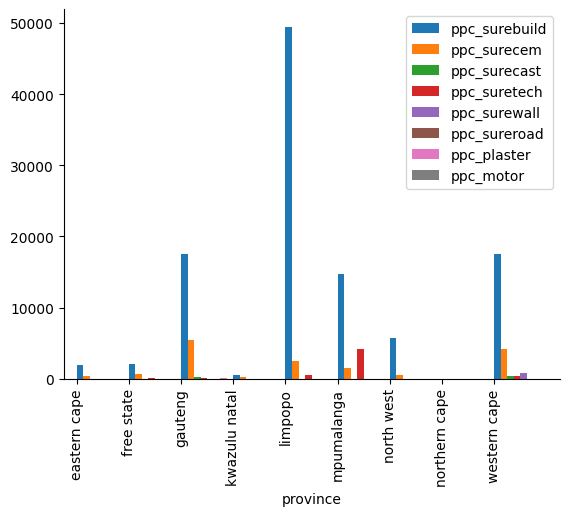
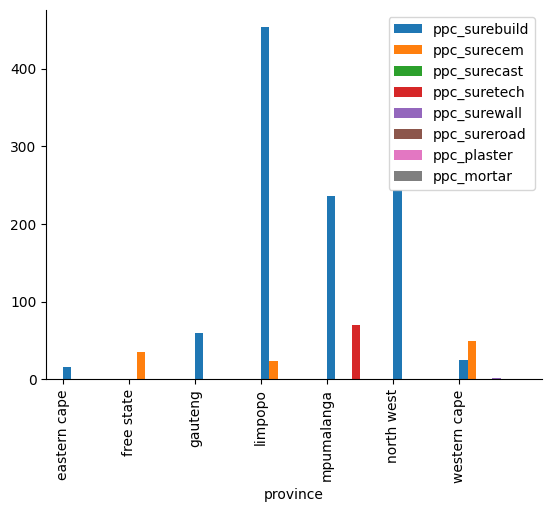
changed motor to mortar

Changed region(s): [[0.0, 0.0312, 0.9855, 1.0]]

diff --git a/ppc_surerewards.py b/ppc_surerewards.py
@@ -267,7 +267,7 @@ def main():
 
 
 
-			df_receiptdata=pd.read_sql_query("SELECT mechant,location,action as platform_massage,cast(createdAt as date) as receipt_upload_date,cast(updatedAt as date) as receipt_captured_date,ppc_surebuild,ppc_surecem,ppc_surecast,ppc_suretech,ppc_surewall,ppc_sureroad,ppc_plaster, ppc_motor FROM receiptdata where cast(updatedAt as date) = '"+ str(selected_date)+"'" ,conn)
+			df_receiptdata=pd.read_sql_query("SELECT mechant,location,action as platform_massage,cast(createdAt as date) as receipt_upload_date,cast(updatedAt as date) as receipt_captured_date,ppc_surebuild,ppc_surecem,ppc_surecast,ppc_suretech,ppc_surewall,ppc_sureroad,ppc_plaster,ppc_motor as  ppc_mortar FROM receiptdata where cast(updatedAt as date) = '"+ str(selected_date)+"'" ,conn)
 
 			camp_u_recpt = pd.read_sql_query( "SELECT count(users.id) as value from users inner join receipts on users.id=receipts.user_id where status  in ('Duplicate receipts','outdated Receipt','Receipt cut off.','Receipt not relevant', 'Receipt not visible','approved','Limit Reached.') and cast(receipts.updatedAt as date) ='"+str(selected_date)+"'and cast(users.createdAt as date ) >= '2022-02-15' and cast(users.createdAt as date )<'"+str(selected_date)+"'",conn)
 			camp_u_numb = pd.read_sql_query( "SELECT count(distinct(users.id)) as value from users inner join receipts on users.id=receipts.user_id where status  in ('Duplicate receipts','outdated Receipt','Receipt cut off.','Receipt not relevant', 'Receipt not visible','approved','Limit Reached.') and cast(receipts.updatedAt as date) ='"+str(selected_date)+"'and cast(users.createdAt as date ) >= '2022-02-15' and cast(users.createdAt as date ) <'"+str(selected_date)+"'",conn)
@@ -288,12 +288,12 @@ def main():
 
 
 
-			bags_by_date=pd.read_sql_query("SELECT cast(updatedAt as date) as date ,ppc_surebuild,ppc_surecem,ppc_surecast,ppc_suretech,ppc_surewall,ppc_sureroad,ppc_plaster, ppc_motor FROM receiptdata where cast(updatedAt as date) between '2022-02-15' and '"+ str(selected_date)+"'" ,conn)
-			bags_by_date['Total number of bags'] =bags_by_date['ppc_surebuild']+bags_by_date['ppc_surecem'] +bags_by_date['ppc_surecast']+bags_by_date['ppc_suretech']+bags_by_date['ppc_surewall']+bags_by_date['ppc_sureroad']+bags_by_date['ppc_plaster']+bags_by_date['ppc_motor']
+			bags_by_date=pd.read_sql_query("SELECT cast(updatedAt as date) as date ,ppc_surebuild,ppc_surecem,ppc_surecast,ppc_suretech,ppc_surewall,ppc_sureroad,ppc_plaster,ppc_motor as  ppc_mortar FROM receiptdata where cast(updatedAt as date) between '2022-02-15' and '"+ str(selected_date)+"'" ,conn)
+			bags_by_date['Total number of bags'] =bags_by_date['ppc_surebuild']+bags_by_date['ppc_surecem'] +bags_by_date['ppc_surecast']+bags_by_date['ppc_suretech']+bags_by_date['ppc_surewall']+bags_by_date['ppc_sureroad']+bags_by_date['ppc_plaster']+bags_by_date['ppc_mortar']
 			
 			## Taking posative Values
 			bags_by_date = bags_by_date[bags_by_date['Total number of bags']>0]
-			bags_by_date['ppc_motor'] = bags_by_date['ppc_motor'].abs()
+			bags_by_date['ppc_mortar'] = bags_by_date['ppc_mortar'].abs()
 
 
 			num_receipts=pd.read_sql_query("SELECT count(*) as no_of_receipts_upload ,cast(receipts.updatedAt as date) as date from users inner join receipts on users.id=receipts.user_id where code !='PPC130' and status  in ('Duplicate receipts','outdated Receipt','Receipt cut off.','Receipt not relevant', 'Receipt not visible','Approved','Limit reached.') and cast(receipts.updatedAt as date) = '"+str(selected_date)+"' ",conn)
@@ -346,12 +346,12 @@ def main():
 			df_receiptdata['mechant'] = df_receiptdata['mechant'].str.replace('\d+', '', regex=True)			
 
 
-			df_receiptdata['Total number of bags'] =df_receiptdata['ppc_surebuild']+df_receiptdata['ppc_surecem'] +df_receiptdata['ppc_surecast']+df_receiptdata['ppc_suretech']+df_receiptdata['ppc_surewall']+df_receiptdata['ppc_sureroad']+df_receiptdata['ppc_plaster']+df_receiptdata['ppc_motor']
+			df_receiptdata['Total number of bags'] =df_receiptdata['ppc_surebuild']+df_receiptdata['ppc_surecem'] +df_receiptdata['ppc_surecast']+df_receiptdata['ppc_suretech']+df_receiptdata['ppc_surewall']+df_receiptdata['ppc_sureroad']+df_receiptdata['ppc_plaster']+df_receiptdata['ppc_mortar']
 
 			## Taking posative Values
 			df_receiptdata = df_receiptdata[df_receiptdata['Total number of bags']>0]
 
-			df_receiptdata['ppc_motor'] = df_receiptdata['ppc_motor'].abs()
+			df_receiptdata['ppc_mortar'] = df_receiptdata['ppc_mortar'].abs()
 
 
 			#
@@ -1140,9 +1140,9 @@ def main():
 
 					################# Addding  Plot  ################################
 
-					producd_region = df_receiptdata.groupby(['province'])['ppc_surebuild','ppc_surecem','ppc_surecast','ppc_suretech','ppc_surewall','ppc_sureroad','ppc_plaster','ppc_motor'].sum().reset_index()
+					producd_region = df_receiptdata.groupby(['province'])['ppc_surebuild','ppc_surecem','ppc_surecast','ppc_suretech','ppc_surewall','ppc_sureroad','ppc_plaster','ppc_mortar'].sum().reset_index()
 
-					product = pd.DataFrame({"ppc_surebuild":list(producd_region['ppc_surebuild']),'ppc_surecem':list(producd_region['ppc_surecem']),'ppc_surecast':list(producd_region['ppc_surecast']),'ppc_suretech':list(producd_region['ppc_suretech']),'ppc_surewall':list(producd_region['ppc_surewall']),'ppc_sureroad':list(producd_region['ppc_sureroad']),'ppc_plaster':list(producd_region['ppc_plaster']),'ppc_motor':list(producd_region['ppc_motor'])}, index=producd_region['province'])
+					product = pd.DataFrame({"ppc_surebuild":list(producd_region['ppc_surebuild']),'ppc_surecem':list(producd_region['ppc_surecem']),'ppc_surecast':list(producd_region['ppc_surecast']),'ppc_suretech':list(producd_region['ppc_suretech']),'ppc_surewall':list(producd_region['ppc_surewall']),'ppc_sureroad':list(producd_region['ppc_sureroad']),'ppc_plaster':list(producd_region['ppc_plaster']),'ppc_mortar':list(producd_region['ppc_mortar'])}, index=producd_region['province'])
 
 
 
@@ -1272,7 +1272,7 @@ def main():
 
 					############## Adding Merchant Performance
 
-					#name_ = ['Total number of bags','ppc_surebuild','ppc_surecem','ppc_surecast','ppc_suretech','ppc_surewall','ppc_sureroad','ppc_plaster','ppc_motor']
+					#name_ = ['Total number of bags','ppc_surebuild','ppc_surecem','ppc_surecast','ppc_suretech','ppc_surewall','ppc_sureroad','ppc_plaster','ppc_mortar']
 
 					#df =df_receiptdata.groupby(['mechant'])[name_].apply(lambda x : x.astype(int).sum())
 					#sorted_df=df.sort_values('Total number of bags', ascending=False)
@@ -1284,7 +1284,7 @@ def main():
 
 
 					################# Top Performong Merchant By Sale Quantity
-					name_ = ['Total number of bags','ppc_surebuild','ppc_surecem','ppc_surecast','ppc_suretech','ppc_surewall','ppc_sureroad','ppc_plaster','ppc_motor']
+					name_ = ['Total number of bags','ppc_surebuild','ppc_surecem','ppc_surecast','ppc_suretech','ppc_surewall','ppc_sureroad','ppc_plaster','ppc_mortar']
 
 					df =df_receiptdata.groupby(['city'])[name_].apply(lambda x : x.astype(int).sum())
 					sorted_df=df.sort_values('Total number of bags', ascending=False)
@@ -1712,7 +1712,7 @@ def main():
 
 					############## Adding Merchant Performance
 
-					#name_ = ['Total number of bags','ppc_surebuild','ppc_surecem','ppc_surecast','ppc_suretech','ppc_surewall','ppc_sureroad','ppc_plaster','ppc_motor']
+					#name_ = ['Total number of bags','ppc_surebuild','ppc_surecem','ppc_surecast','ppc_suretech','ppc_surewall','ppc_sureroad','ppc_plaster','ppc_mortar']
 
 					#df =df_receiptdata.groupby(['mechant'])[name_].apply(lambda x : x.astype(int).sum())
 					#sorted_df=df.sort_values('Total number of bags', ascending=False)
@@ -1724,7 +1724,7 @@ def main():
 
 
 					################# Top Performong Merchant By Sale Quantity
-					name_ = ['Total number of bags','ppc_surebuild','ppc_surecem','ppc_surecast','ppc_suretech','ppc_surewall','ppc_sureroad','ppc_plaster','ppc_motor']
+					name_ = ['Total number of bags','ppc_surebuild','ppc_surecem','ppc_surecast','ppc_suretech','ppc_surewall','ppc_sureroad','ppc_plaster','ppc_mortar']
 
 					df =df_receiptdata.groupby(['mechant'])[name_].apply(lambda x : x.astype(int).sum())
 					sorted_df=df.sort_values('Total number of bags', ascending=False)
@@ -2871,7 +2871,7 @@ def main():
 
 
 
-			df_receiptdata=pd.read_sql_query("SELECT mechant,location,action as platform_massage,cast(createdAt as date) as receipt_upload_date,cast(updatedAt as date) as receipt_captured_date,ppc_surebuild,ppc_surecem,ppc_surecast,ppc_suretech,ppc_surewall,ppc_sureroad,ppc_plaster, ppc_motor FROM receiptdata where cast(updatedAt as date) between '"+ str(start_date)+"' and '"+ str(end_date)+"'" ,conn)
+			df_receiptdata=pd.read_sql_query("SELECT mechant,location,action as platform_massage,cast(createdAt as date) as receipt_upload_date,cast(updatedAt as date) as receipt_captured_date,ppc_surebuild,ppc_surecem,ppc_surecast,ppc_suretech,ppc_surewall,ppc_sureroad,ppc_plaster,ppc_motor as ppc_mortar FROM receiptdata where cast(updatedAt as date) between '"+ str(start_date)+"' and '"+ str(end_date)+"'" ,conn)
 
 			camp_u_recpt = pd.read_sql_query( "SELECT count(users.id) as value from users inner join receipts on users.id=receipts.user_id where status  in ('Duplicate receipts','outdated Receipt','Receipt cut off.','Receipt not relevant', 'Receipt not visible','approved','Limit Reached.') and cast(receipts.updatedAt as date) between'"+ str(start_date)+"' and '"+ str(end_date)+"'and cast(users.createdAt as date ) >= '2022-02-15' and cast(users.createdAt as date )<'"+str(start_date)+"'",conn)
 			camp_u_numb = pd.read_sql_query( "SELECT count(distinct(users.id)) as value from users inner join receipts on users.id=receipts.user_id where status  in ('Duplicate receipts','outdated Receipt','Receipt cut off.','Receipt not relevant', 'Receipt not visible','approved','Limit Reached.') and cast(receipts.updatedAt as date) between'"+ str(start_date)+"' and '"+ str(end_date)+"'and cast(users.createdAt as date ) >= '2022-02-15' and cast(users.createdAt as date ) <'"+str(start_date)+"'",conn)
@@ -2892,12 +2892,12 @@ def main():
 
 
 
-			bags_by_date=pd.read_sql_query("SELECT cast(updatedAt as date) as date ,ppc_surebuild,ppc_surecem,ppc_surecast,ppc_suretech,ppc_surewall,ppc_sureroad,ppc_plaster, ppc_motor FROM receiptdata where cast(updatedAt as date) between '2022-02-15' and '"+ str(end_date)+"'" ,conn)
-			bags_by_date['Total number of bags'] =bags_by_date['ppc_surebuild']+bags_by_date['ppc_surecem'] +bags_by_date['ppc_surecast']+bags_by_date['ppc_suretech']+bags_by_date['ppc_surewall']+bags_by_date['ppc_sureroad']+bags_by_date['ppc_plaster']+bags_by_date['ppc_motor']
+			bags_by_date=pd.read_sql_query("SELECT cast(updatedAt as date) as date ,ppc_surebuild,ppc_surecem,ppc_surecast,ppc_suretech,ppc_surewall,ppc_sureroad,ppc_plaster,ppc_motor as ppc_mortar FROM receiptdata where cast(updatedAt as date) between '2022-02-15' and '"+ str(end_date)+"'" ,conn)
+			bags_by_date['Total number of bags'] =bags_by_date['ppc_surebuild']+bags_by_date['ppc_surecem'] +bags_by_date['ppc_surecast']+bags_by_date['ppc_suretech']+bags_by_date['ppc_surewall']+bags_by_date['ppc_sureroad']+bags_by_date['ppc_plaster']+bags_by_date['ppc_mortar']
 			
 			## Taking posative Values
 			bags_by_date = bags_by_date[bags_by_date['Total number of bags']>0]
-			bags_by_date['ppc_motor'] = bags_by_date['ppc_motor'].abs()
+			bags_by_date['ppc_mortar'] = bags_by_date['ppc_mortar'].abs()
 
 
 			num_receipts=pd.read_sql_query("SELECT count(*) as no_of_receipts_upload ,cast(receipts.updatedAt as date) as date from users inner join receipts on users.id=receipts.user_id where code !='PPC130' and status  in ('Duplicate receipts','outdated Receipt','Receipt cut off.','Receipt not relevant', 'Receipt not visible','Approved','Limit reached.') and cast(receipts.updatedAt as date) between '"+ str(start_date)+"' and '"+ str(end_date)+"' ",conn)
@@ -2923,12 +2923,12 @@ def main():
 
 			######## bags inter #########################
 
-			bags_interval=pd.read_sql_query("SELECT cast(updatedAt as date) as date ,ppc_surebuild,ppc_surecem,ppc_surecast,ppc_suretech,ppc_surewall,ppc_sureroad,ppc_plaster, ppc_motor FROM receiptdata where cast(updatedAt as date) between '"+str(start_date)+"' and '"+ str(end_date)+"'" ,conn)
-			bags_interval['Total number of bags'] =bags_interval['ppc_surebuild']+bags_interval['ppc_surecem'] +bags_interval['ppc_surecast']+bags_interval['ppc_suretech']+bags_interval['ppc_surewall']+bags_interval['ppc_sureroad']+bags_interval['ppc_plaster']+bags_interval['ppc_motor']
+			bags_interval=pd.read_sql_query("SELECT cast(updatedAt as date) as date ,ppc_surebuild,ppc_surecem,ppc_surecast,ppc_suretech,ppc_surewall,ppc_sureroad,ppc_plaster,ppc_motor as ppc_mortar FROM receiptdata where cast(updatedAt as date) between '"+str(start_date)+"' and '"+ str(end_date)+"'" ,conn)
+			bags_interval['Total number of bags'] =bags_interval['ppc_surebuild']+bags_interval['ppc_surecem'] +bags_interval['ppc_surecast']+bags_interval['ppc_suretech']+bags_interval['ppc_surewall']+bags_interval['ppc_sureroad']+bags_interval['ppc_plaster']+bags_interval['ppc_mortar']
 			
 			## Taking posative Values
 			bags_interval = bags_interval[bags_interval['Total number of bags']>0]
-			bags_interval['ppc_motor'] =bags_interval['ppc_motor'].abs()
+			bags_interval['ppc_mortar'] =bags_interval['ppc_mortar'].abs()
 
 			
 			bags_interval =bags_interval.groupby(['date'])[['Total number of bags']].apply(lambda x : x.astype(int).sum())
@@ -2973,12 +2973,12 @@ def main():
 			df_receiptdata['mechant'] = df_receiptdata['mechant'].str.replace('\d+', '', regex=True)			
 
 
-			df_receiptdata['Total number of bags'] =df_receiptdata['ppc_surebuild']+df_receiptdata['ppc_surecem'] +df_receiptdata['ppc_surecast']+df_receiptdata['ppc_suretech']+df_receiptdata['ppc_surewall']+df_receiptdata['ppc_sureroad']+df_receiptdata['ppc_plaster']+df_receiptdata['ppc_motor']
+			df_receiptdata['Total number of bags'] =df_receiptdata['ppc_surebuild']+df_receiptdata['ppc_surecem'] +df_receiptdata['ppc_surecast']+df_receiptdata['ppc_suretech']+df_receiptdata['ppc_surewall']+df_receiptdata['ppc_sureroad']+df_receiptdata['ppc_plaster']+df_receiptdata['ppc_mortar']
 
 			## Taking posative Values
 			df_receiptdata = df_receiptdata[df_receiptdata['Total number of bags']>0]
 
-			df_receiptdata['ppc_motor'] = df_receiptdata['ppc_motor'].abs()
+			df_receiptdata['ppc_mortar'] = df_receiptdata['ppc_mortar'].abs()
 
 
 			#
@@ -3767,13 +3767,13 @@ def main():
 
 					################# Addding  Plot  ################################
 
-					producd_region = df_receiptdata.groupby(['province'])['ppc_surebuild','ppc_surecem','ppc_surecast','ppc_suretech','ppc_surewall','ppc_sureroad','ppc_plaster','ppc_motor'].sum().reset_index()
+					producd_region = df_receiptdata.groupby(['province'])['ppc_surebuild','ppc_surecem','ppc_surecast','ppc_suretech','ppc_surewall','ppc_sureroad','ppc_plaster','ppc_mortar'].sum().reset_index()
 					
 
 
 					
 
-					product = pd.DataFrame({"ppc_surebuild":list(producd_region['ppc_surebuild']),'ppc_surecem':list(producd_region['ppc_surecem']),'ppc_surecast':list(producd_region['ppc_surecast']),'ppc_suretech':list(producd_region['ppc_suretech']),'ppc_surewall':list(producd_region['ppc_surewall']),'ppc_sureroad':list(producd_region['ppc_sureroad']),'ppc_plaster':list(producd_region['ppc_plaster']),'ppc_motor':list(producd_region['ppc_motor'])}, index=producd_region['province'])
+					product = pd.DataFrame({"ppc_surebuild":list(producd_region['ppc_surebuild']),'ppc_surecem':list(producd_region['ppc_surecem']),'ppc_surecast':list(producd_region['ppc_surecast']),'ppc_suretech':list(producd_region['ppc_suretech']),'ppc_surewall':list(producd_region['ppc_surewall']),'ppc_sureroad':list(producd_region['ppc_sureroad']),'ppc_plaster':list(producd_region['ppc_plaster']),'ppc_mortar':list(producd_region['ppc_mortar'])}, index=producd_region['province'])
 
 
 
@@ -3952,7 +3952,7 @@ def main():
 
 					############## Adding Merchant Performance
 
-					#name_ = ['Total number of bags','ppc_surebuild','ppc_surecem','ppc_surecast','ppc_suretech','ppc_surewall','ppc_sureroad','ppc_plaster','ppc_motor']
+					#name_ = ['Total number of bags','ppc_surebuild','ppc_surecem','ppc_surecast','ppc_suretech','ppc_surewall','ppc_sureroad','ppc_plaster','ppc_mortar']
 
 					#df =df_receiptdata.groupby(['mechant'])[name_].apply(lambda x : x.astype(int).sum())
 					#sorted_df=df.sort_values('Total number of bags', ascending=False)
@@ -3964,7 +3964,7 @@ def main():
 
 
 					################# Top Performong Merchant By Sale Quantity
-					name_ = ['Total number of bags','ppc_surebuild','ppc_surecem','ppc_surecast','ppc_suretech','ppc_surewall','ppc_sureroad','ppc_plaster','ppc_motor']
+					name_ = ['Total number of bags','ppc_surebuild','ppc_surecem','ppc_surecast','ppc_suretech','ppc_surewall','ppc_sureroad','ppc_plaster','ppc_mortar']
 
 					df =df_receiptdata.groupby(['city'])[name_].apply(lambda x : x.astype(int).sum())
 					sorted_df=df.sort_values('Total number of bags', ascending=False)
@@ -4392,7 +4392,7 @@ def main():
 
 					############## Adding Merchant Performance
 
-					#name_ = ['Total number of bags','ppc_surebuild','ppc_surecem','ppc_surecast','ppc_suretech','ppc_surewall','ppc_sureroad','ppc_plaster','ppc_motor']
+					#name_ = ['Total number of bags','ppc_surebuild','ppc_surecem','ppc_surecast','ppc_suretech','ppc_surewall','ppc_sureroad','ppc_plaster','ppc_mortar']
 
 					#df =df_receiptdata.groupby(['mechant'])[name_].apply(lambda x : x.astype(int).sum())
 					#sorted_df=df.sort_values('Total number of bags', ascending=False)
@@ -4404,7 +4404,7 @@ def main():
 
 
 					################# Top Performong Merchant By Sale Quantity
-					name_ = ['Total number of bags','ppc_surebuild','ppc_surecem','ppc_surecast','ppc_suretech','ppc_surewall','ppc_sureroad','ppc_plaster','ppc_motor']
+					name_ = ['Total number of bags','ppc_surebuild','ppc_surecem','ppc_surecast','ppc_suretech','ppc_surewall','ppc_sureroad','ppc_plaster','ppc_mortar']
 
 					df =df_receiptdata.groupby(['mechant'])[name_].apply(lambda x : x.astype(int).sum())
 					sorted_df=df.sort_values('Total number of bags', ascending=False)
@@ -5070,9 +5070,26 @@ def main():
 					###### Adding Comments ##########################3
 
 					apprv_ = status[status['status']=='approved']['count'].reset_index()
-					limit_ = status[status['status']=='Limit reached.']['count'].reset_index()
 
-					apprvd_per =round(((apprv_['count'][0]+limit_['count'][0])/status['count'].sum())*100)
+					
+					status_list =list(status.columns)
+
+					limit_name= ['Limit reached.']
+
+					for name in limit_name :
+						if name in status_list:
+							limit_no= limit_['count'][0]
+						else:
+							limit_no =0
+
+
+
+
+									
+
+					apprvd_per =round(((apprv_['count'][0]+limit_no)/status['count'].sum())*100,2)
+
+
 
 
 
@@ -5528,7 +5545,7 @@ def main():
 	if selection == "Product Performance":
 
 
-		df_receiptdata=pd.read_sql_query("SELECT mechant,location,action as platform_massage,cast(createdAt as date) as receipt_upload_date,cast(updatedAt as date) as receipt_captured_date,ppc_surebuild,ppc_surecem,ppc_surecast,ppc_suretech,ppc_surewall,ppc_sureroad,ppc_plaster, ppc_motor FROM receiptdata ",conn)
+		df_receiptdata=pd.read_sql_query("SELECT mechant,location,action as platform_massage,cast(createdAt as date) as receipt_upload_date,cast(updatedAt as date) as receipt_captured_date,ppc_surebuild,ppc_surecem,ppc_surecast,ppc_suretech,ppc_surewall,ppc_sureroad,ppc_plaster, ppc_motor as ppc_mortar FROM receiptdata ",conn)
 
 
 		### split data into city and province
@@ -5564,12 +5581,12 @@ def main():
 
 
 
-		df_receiptdata['Total number of bags'] =df_receiptdata['ppc_surebuild']+df_receiptdata['ppc_surecem'] +df_receiptdata['ppc_surecast']+df_receiptdata['ppc_suretech']+df_receiptdata['ppc_surewall']+df_receiptdata['ppc_sureroad']+df_receiptdata['ppc_plaster']+df_receiptdata['ppc_motor']
+		df_receiptdata['Total number of bags'] =df_receiptdata['ppc_surebuild']+df_receiptdata['ppc_surecem'] +df_receiptdata['ppc_surecast']+df_receiptdata['ppc_suretech']+df_receiptdata['ppc_surewall']+df_receiptdata['ppc_sureroad']+df_receiptdata['ppc_plaster']+df_receiptdata['ppc_mortar']
 
 		## Taking posative Values
 		df_receiptdata = df_receiptdata[df_receiptdata['Total number of bags']>0]
 
-		df_receiptdata['ppc_motor'] = df_receiptdata['ppc_motor'].abs()
+		df_receiptdata['ppc_mortar'] = df_receiptdata['ppc_mortar'].abs()
 
         ## Receipt data from  PPC130 Campaign
 		PPC130_receiptdata = df_receiptdata [df_receiptdata['receipt_captured_date']>=pd.to_datetime("'2022-02-15'").date()]
@@ -5731,7 +5748,7 @@ def main():
 				metric('ppc_plaster', df_receiptdata['ppc_plaster'].sum())
 
 			with col4:
-				metric('ppc_motor', abs(df_receiptdata['ppc_motor'].sum()))
+				metric('ppc_mortar', abs(df_receiptdata['ppc_mortar'].sum()))
 
 
 		
@@ -5741,9 +5758,9 @@ def main():
 	
 
 		
-		product_name = ['ppc_surebuild','ppc_surecem','ppc_surecast','ppc_suretech','ppc_surewall','ppc_sureroad','ppc_plaster','ppc_motor']
+		product_name = ['ppc_surebuild','ppc_surecem','ppc_surecast','ppc_suretech','ppc_surewall','ppc_sureroad','ppc_plaster','ppc_mortar']
 
-		product_values =[df_receiptdata['ppc_surebuild'].sum(),df_receiptdata['ppc_surecem'].sum() ,df_receiptdata['ppc_surecast'].sum(),df_receiptdata['ppc_suretech'].sum(),df_receiptdata['ppc_surewall'].sum(),df_receiptdata['ppc_sureroad'].sum(),df_receiptdata['ppc_plaster'].sum(),df_receiptdata['ppc_motor'].sum()]
+		product_values =[df_receiptdata['ppc_surebuild'].sum(),df_receiptdata['ppc_surecem'].sum() ,df_receiptdata['ppc_surecast'].sum(),df_receiptdata['ppc_suretech'].sum(),df_receiptdata['ppc_surewall'].sum(),df_receiptdata['ppc_sureroad'].sum(),df_receiptdata['ppc_plaster'].sum(),df_receiptdata['ppc_mortar'].sum()]
 
 		df = pd.DataFrame({'PPC Products': product_name,  'Total No of Bags': product_values})
 		
@@ -5762,7 +5779,7 @@ def main():
 		top_mech=st.radio("Top Performing Merchant",("Top 10 Merchant","Top 20 Merchant"))
 		### Top Performing Machants
 
-		name_ = ['Total number of bags','ppc_surebuild','ppc_surecem','ppc_surecast','ppc_suretech','ppc_surewall','ppc_sureroad','ppc_plaster','ppc_motor']
+		name_ = ['Total number of bags','ppc_surebuild','ppc_surecem','ppc_surecast','ppc_suretech','ppc_surewall','ppc_sureroad','ppc_plaster','ppc_mortar']
 
 		df =df_receiptdata.groupby(['mechant'])[name_].apply(lambda x : x.astype(int).sum())
 		sorted_df=df.sort_values('Total number of bags', ascending=False)
@@ -5953,7 +5970,7 @@ def main():
 		#############  Load data ################
 
 
-		df_receiptdata=pd.read_sql_query("SELECT location,cast(createdAt as date) as date,ppc_surebuild,ppc_surecem,ppc_surecast,ppc_suretech,ppc_surewall,ppc_sureroad,ppc_plaster, ppc_motor FROM receiptdata where cast(createdAt as date) >= '2022-02-15'" ,conn)
+		df_receiptdata=pd.read_sql_query("SELECT location,cast(createdAt as date) as date,ppc_surebuild,ppc_surecem,ppc_surecast,ppc_suretech,ppc_surewall,ppc_sureroad,ppc_plaster, ppc_mortar FROM receiptdata where cast(createdAt as date) >= '2022-02-15'" ,conn)
  
 		df_receiptdata[['city','province']] = df_receiptdata['location'].str.split(',', expand=True)
 		df_receiptdata.drop('location', axis=1, inplace=True)
@@ -5981,12 +5998,12 @@ def main():
 		df_receiptdata['province'] = df_receiptdata['province'].str.replace('\d+', '', regex=True)
 
 
-		df_receiptdata['Total number of bags'] =df_receiptdata['ppc_surebuild']+df_receiptdata['ppc_surecem'] +df_receiptdata['ppc_surecast']+df_receiptdata['ppc_suretech']+df_receiptdata['ppc_surewall']+df_receiptdata['ppc_sureroad']+df_receiptdata['ppc_plaster']+df_receiptdata['ppc_motor']
+		df_receiptdata['Total number of bags'] =df_receiptdata['ppc_surebuild']+df_receiptdata['ppc_surecem'] +df_receiptdata['ppc_surecast']+df_receiptdata['ppc_suretech']+df_receiptdata['ppc_surewall']+df_receiptdata['ppc_sureroad']+df_receiptdata['ppc_plaster']+df_receiptdata['ppc_mortar']
 
 		## Taking posative Values
 		df_receiptdata = df_receiptdata[df_receiptdata['Total number of bags']>0]
 
-		df_receiptdata['ppc_motor'] = df_receiptdata['ppc_motor'].abs()
+		df_receiptdata['ppc_mortar'] = df_receiptdata['ppc_mortar'].abs()
 
 
 		#
